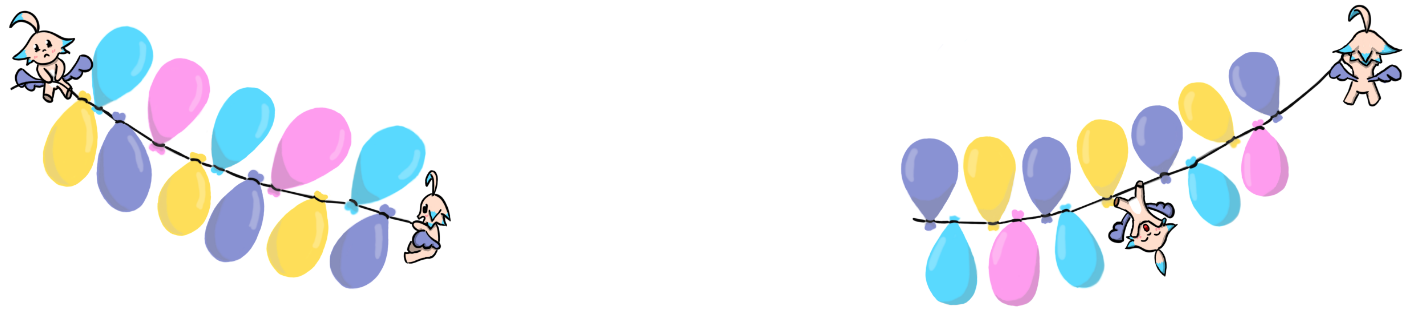
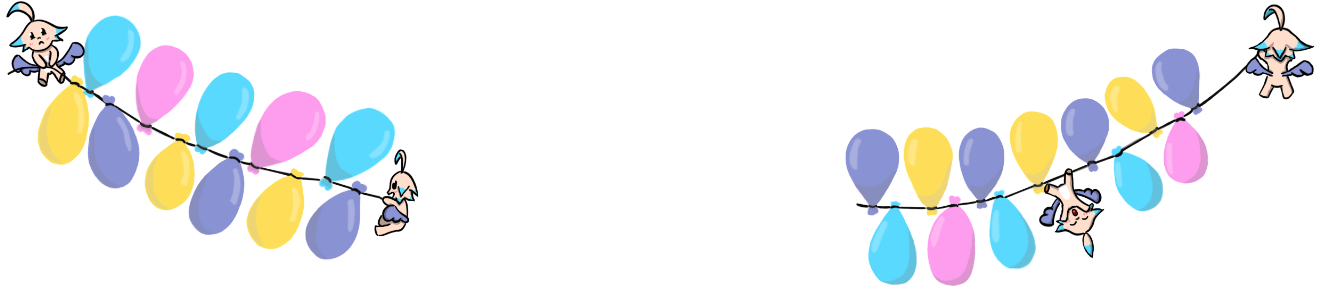
Added nina, cleanups, tweaks

diff --git a/src/game/data/elements.js b/src/game/data/elements.js
@@ -38,29 +38,29 @@ module.exports = {
   },
   balloons: {
     x: 0.521,
-    y: 0.14,
+    y: 0.10,
     z: 3,
     str: 1.8,
-    scale: 0.8,
     ox: 0.5,
     oy: 0.5,
-  },
-  gifts: {
-    x: 0.67,
-    y: 0.49,
-    z: 4,
-    str: 1.6,
-    ox: 0.5,
-    oy: 0.5,
-    text: 'Artworks',
-    project: 'twitterart',
-    font: 40,
   },
   reimu: {
     x: 0.1,
-    y: 0.35,
+    y: 0.24,
     z: 100,
-    scale: 0.85,
+    scale: 0.75,
+    str: 1.9,
+    ox: 0.5,
+    oy: 0.7,
+    text: 'God Sees All',
+    project: 'gsacover',
+    font: 35,
+  },
+  nina: {
+    x: 0.2,
+    y: 0.73,
+    z: 102,
+    scale: 1,
     str: 1.4,
     ox: 0.5,
     oy: 0.7,
@@ -80,38 +80,19 @@ module.exports = {
     x: 0.962,
     y: 0.2,
     z: 100,
-    str: 1.7,
+    str: 1.5,
     ox: 0.5,
     oy: 0.5,
     text: 'Aloucast',
     project: 'aloucast',
     font: 37,
   },
-  cake: {
-    texture: 'cake',
-    x: 0.5,
-    y: 0.75,
-    z: 100,
-    str: -0.8,
-    ox: 0.5,
-    oy: 0.5,
-    text: 'Happy Birthday',
-    project: 'voices',
-  },
-  table: {
-    x: 0.5,
-    y: 0.85,
-    z: 98,
-    str: -0.6,
-    ox: 0.5,
-    oy: 0.5,
-  },
   millie: {
-    x: 0.73,
-    y: 0.95,
+    x: 0.71,
+    y: 0.96,
     z: 99,
-    scale: 0.9,
-    str: -0.9,
+    scale: 0.86,
+    str: -0.4,
     ox: 0.5,
     oy: 0.9,
     text: 'God Sees All',

diff --git a/src/game/scenes/index.js b/src/game/scenes/index.js
@@ -5,6 +5,7 @@ import PartyScene from './party';
 import ImgCake from '../assets/images/cake.png';
 import ImgGifts from '../assets/images/gifts.png';
 import ImgReimu from '../assets/images/reimu.png';
+import ImgNina from '../assets/images/nina.png';
 import ImgRoom from '../assets/images/room.png';
 import ImgTable from '../assets/images/table.png';
 import ImgMillie from '../assets/images/millie.png';
@@ -41,6 +42,7 @@ class IndexScene extends Phaser.Scene {
     this.load.image('cake', ImgCake);
     this.load.image('gifts', ImgGifts);
     this.load.image('reimu', ImgReimu);
+    this.load.image('nina', ImgNina);
     this.load.image('room', ImgRoom);
     this.load.image('table', ImgTable);
     this.load.image('couch', ImgCouch);

diff --git a/src/game/scenes/party.js b/src/game/scenes/party.js
@@ -1,7 +1,7 @@
 import Phaser from 'phaser';
 import Elements from '../data/elements';
 
-const INTENSITY_X = 0.006;
+const INTENSITY_X = 0.007;
 const INTENSITY_Y = 0.004;
 
 class PartyScene extends Phaser.Scene {
